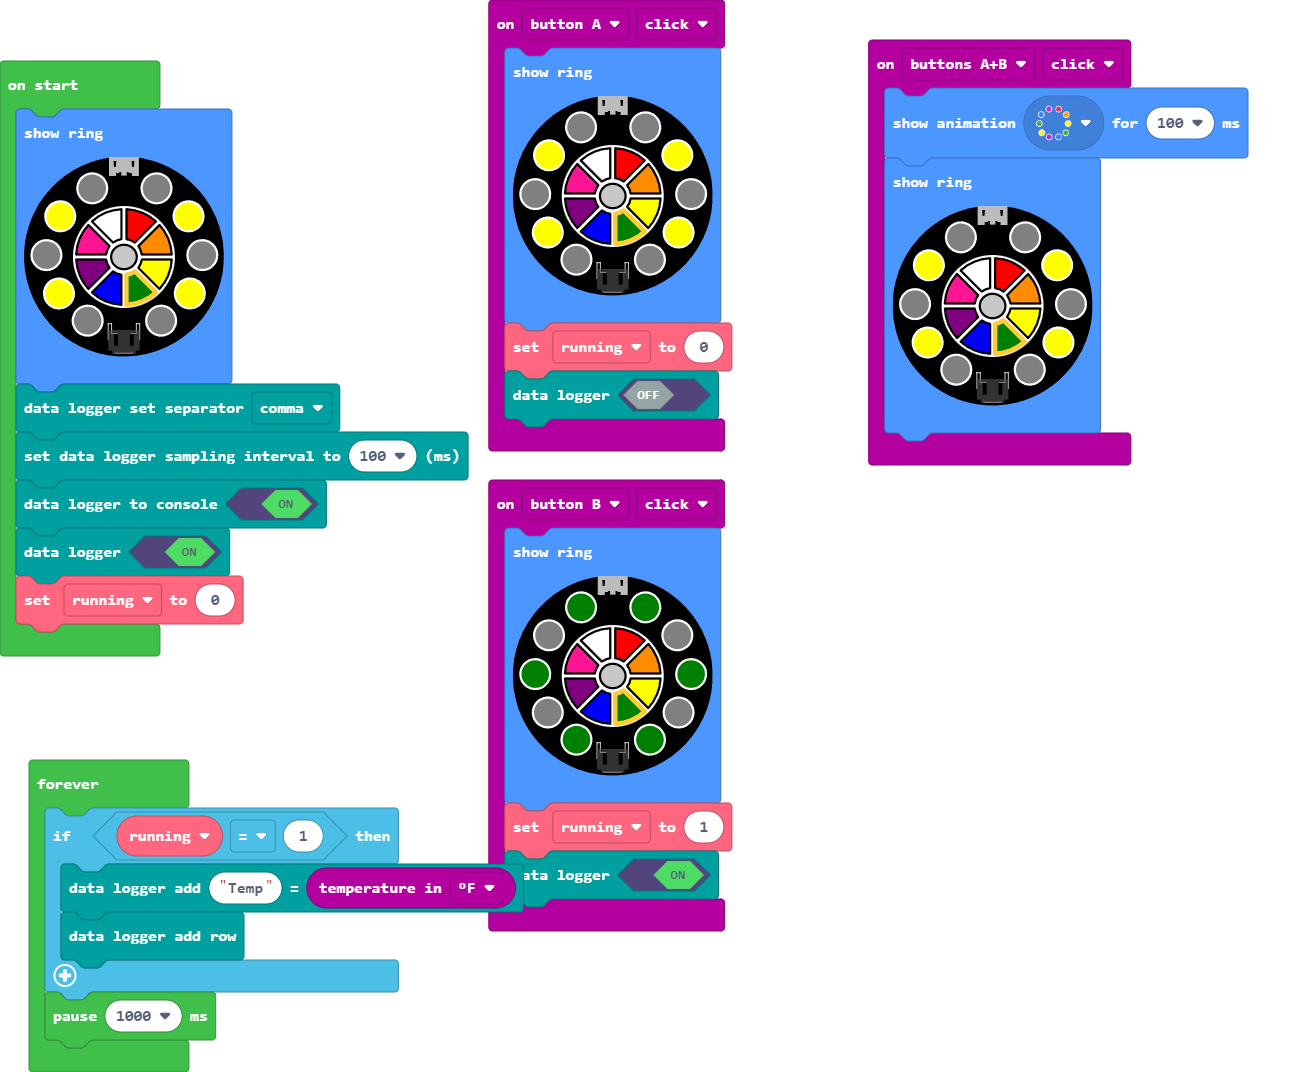
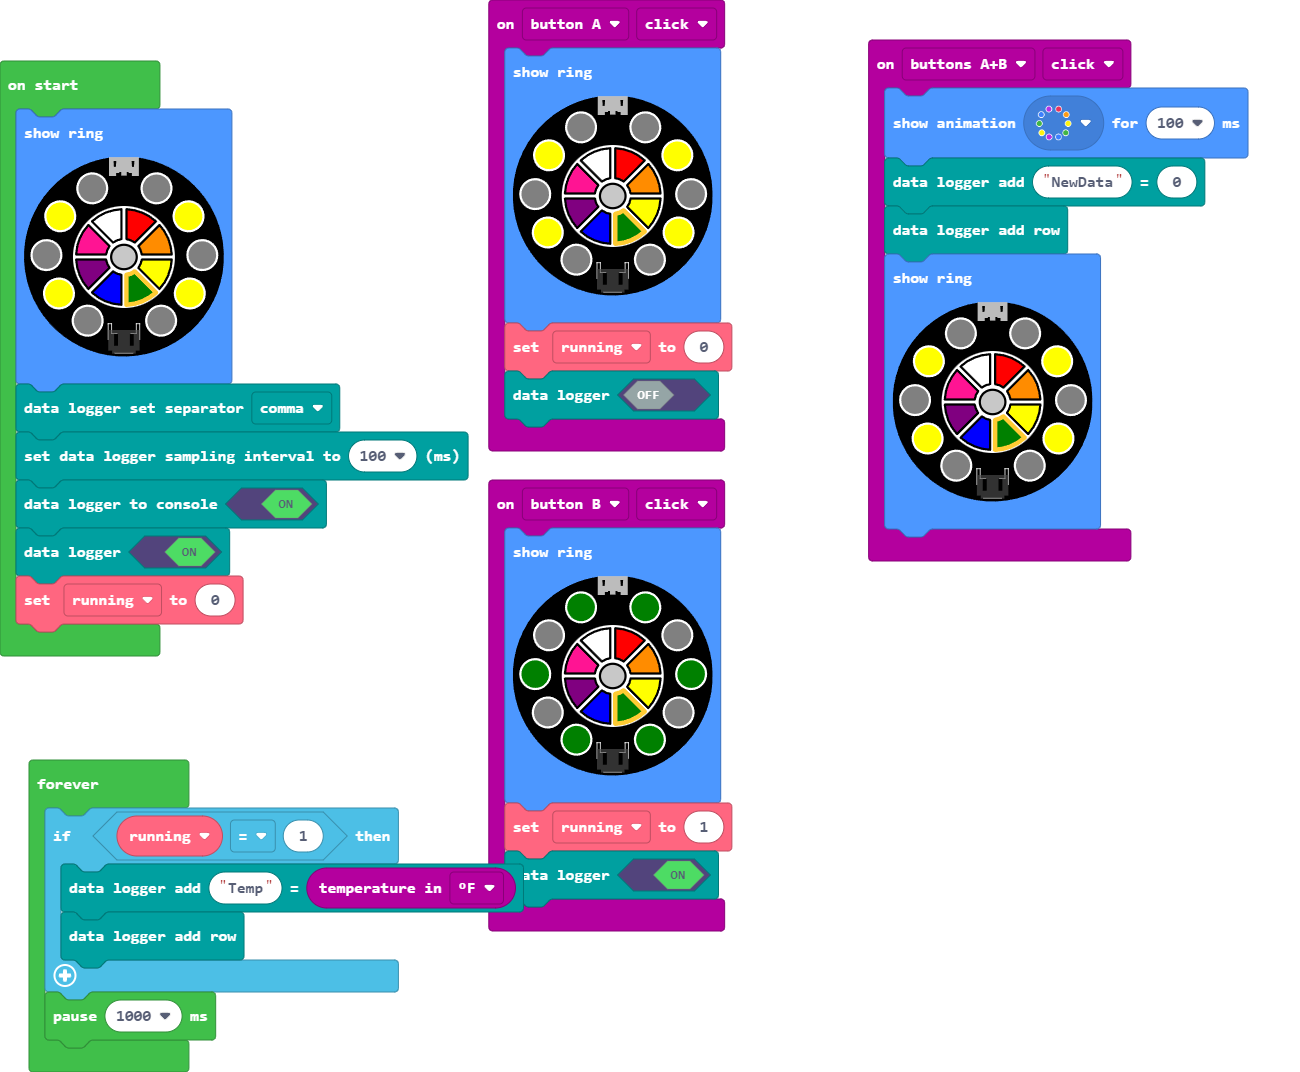
Updated A+B button

Changed region(s): [[0.6462, 0.1231, 0.9538, 0.5233]]

diff --git a/main.ts b/main.ts
@@ -1,5 +1,7 @@
 input.buttonsAB.onEvent(ButtonEvent.Click, function () {
     light.showAnimation(light.rainbowAnimation, 100)
+    datalogger.addValue("NewData", 0)
+    datalogger.addRow()
     light.showRing(
     `black yellow black yellow black black yellow black yellow black`
     )
